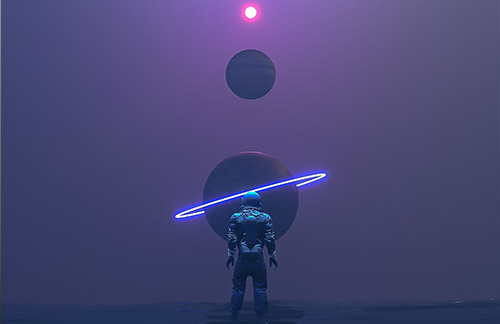
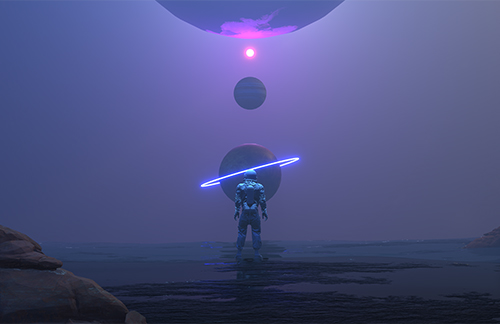
image bug fixed all

diff --git a/index.html b/index.html
@@ -695,7 +695,7 @@
                   <img src="assets/img/gallery/img-3.jpg" alt=""/> 
                   <div class="overlay">
                     <div class="icons">
-                      <a class="lightbox preview" href="assets/img/gallery/img-3.jpg">
+                      <a class="lightbox preview" href="assets/img/gallery/img-3.1.jpg">
                         <i class="icon-eye"></i>
                       </a>
                       <a class="link" target="_blank" href="https://www.instagram.com/p/CXyZXwmI4W7/">
@@ -916,7 +916,7 @@
                   <img src="assets/img/gallery/img-4.jpg" alt="" /> 
                   <div class="overlay">
                     <div class="icons">
-                      <a class="lightbox preview" href="assets/img/gallery/img-4.jpg">
+                      <a class="lightbox preview" href="assets/img/gallery/img-4.1.jpg">
                         <i class="icon-eye"></i>
                       </a>
                       <a class="link" target="_blank" href="https://www.instagram.com/p/CY2922voa2a/">
@@ -984,7 +984,7 @@
                   <img src="assets/img/gallery/img-5.jpg" alt="" /> 
                   <div class="overlay">
                     <div class="icons">
-                      <a class="lightbox preview" href="assets/img/gallery/img-5.jpg">
+                      <a class="lightbox preview" href="assets/img/gallery/img-5.1.jpg">
                         <i class="icon-eye"></i>
                       </a>
                       <a class="link" target="_blank" href="https://www.instagram.com/p/CX-aYL7ILAU/">
